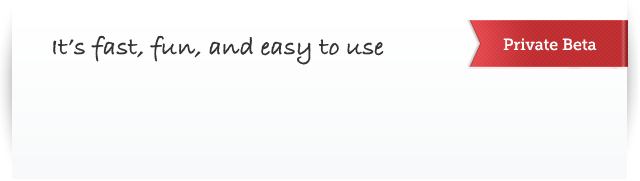
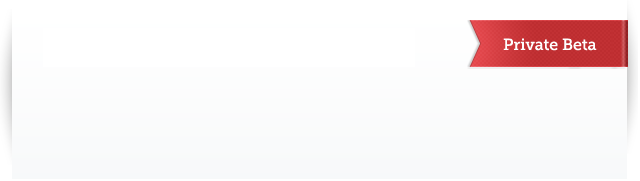
updates on the layout

Changed region(s): [[0.0625, 0.1934, 0.5938, 0.3591]]

diff --git a/public/stylesheets/home.css b/public/stylesheets/home.css
@@ -1,4 +1,4 @@
-body{ background:#eef1f3 url(/images/home/yellow.png) repeat-x;}
+body{ background:#eef1f3 url(/images/home/green.png) repeat-x;}
 .container{
   width:1210px;
 
@@ -15,8 +15,9 @@ body{ background:#eef1f3 url(/images/home/yellow.png) repeat-x;}
   height:55px;
   text-indent:-5000px;
 }
-.home-menu ul li a.for-you{ background:url(/images/home/for_you.png) no-repeat ; width:122px}
-.home-menu ul li a.for-your-business{background:url(/images/home/foryourbiz.png) no-repeat;width:142px; margin-left:10px;} 
+.home-menu ul li a.for-you{ background:url(/images/home/for_you.png)  no-repeat ; width:122px ; margin-top:-10px;}
+.home-menu ul li a.for-your-business{background:url(/images/home/foryourbiz.png)  no-repeat;width:142px; margin-left:10px;
+ margin-top:-10px;} 
 
 .home-menu{ height:100px;}
 .home-menu ul.home{
@@ -24,8 +25,6 @@ body{ background:#eef1f3 url(/images/home/yellow.png) repeat-x;}
 }
 
 #content{
-
-	padding-top:30px;
 }
 .bo{
   /*border: green 1px solid;*/
@@ -33,7 +32,6 @@ body{ background:#eef1f3 url(/images/home/yellow.png) repeat-x;}
 
 
 .right-column{
-  margin-top:95px;
 }
 .hide{
   display:none;
@@ -42,12 +40,11 @@ body{ background:#eef1f3 url(/images/home/yellow.png) repeat-x;}
 .content-box{
   margin-top:20px;
   background: url(/images/home/header.png) no-repeat;
-  padding-top: 100px;
 }
 
 .white-container{
   background:#fff;
-  padding: 20px;
+  padding: 30px;
   margin-left:12px;
   margin-right:3px;
 }
@@ -73,5 +70,36 @@ body{ background:#eef1f3 url(/images/home/yellow.png) repeat-x;}
 }
 
 .company-name{
-  font-weight:bold;
+}
+
+div.iphone{
+  margin-top:-5px;
+}
+.logo{
+  margin-top:30px;
+  padding-left:32px;
+}
+.slogan{
+  margin-top:-7px;
+  padding-left:17px;
+}
+
+.content-header{
+  padding-top:22px;
+  padding-left:30px;
+}
+.slogan.buggy{
+  padding-left:28px;
+}
+input.submit{
+  background:url(/images/home/joinbt.png) no-repeat transparent center top;
+  height:45px;
+  width:121px;
+   margin: 0;
+  padding: 0;
+  border: 0;
+  text-indent: -1000em;
+  cursor: pointer; /* hand-shaped cursor */
+  cursor: hand; /* for IE 5.x */
+
 }
